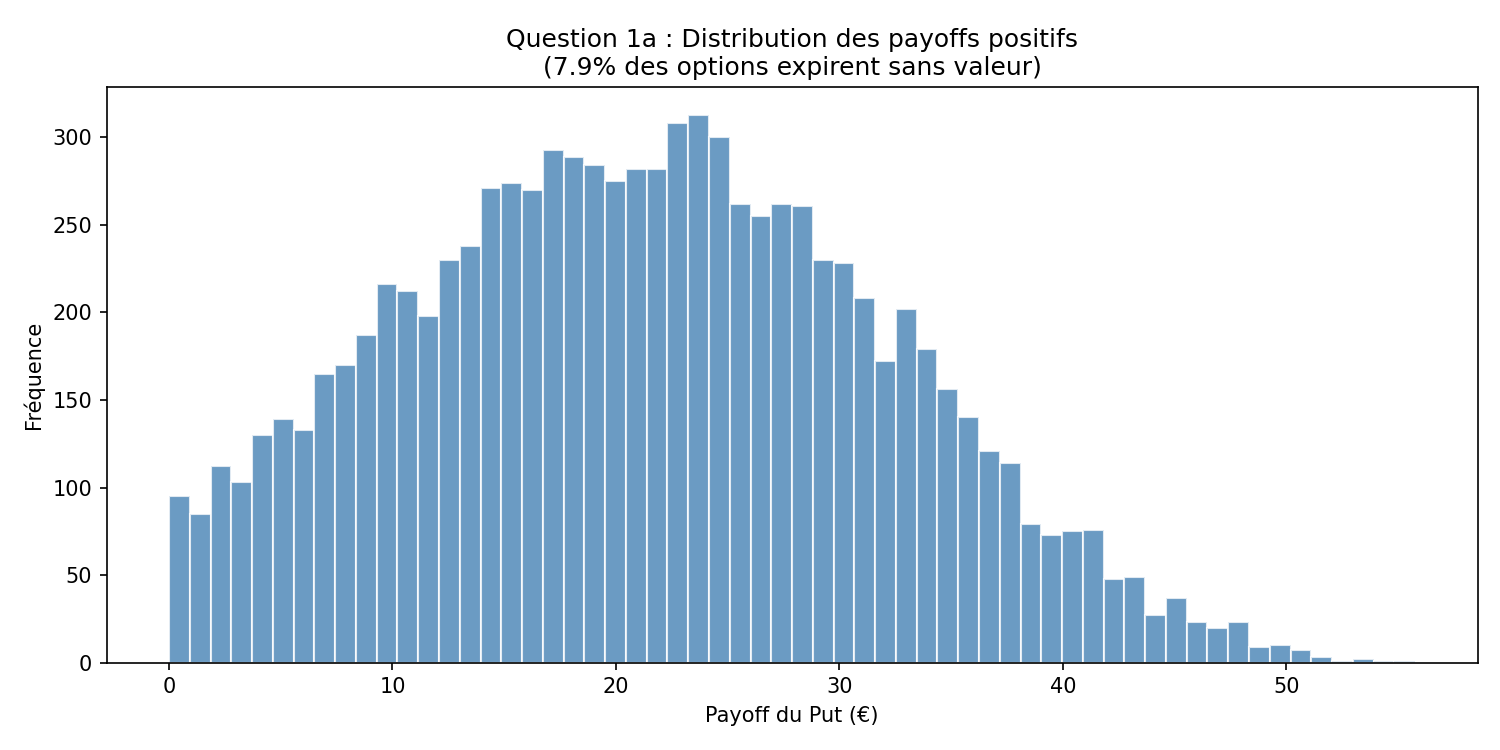
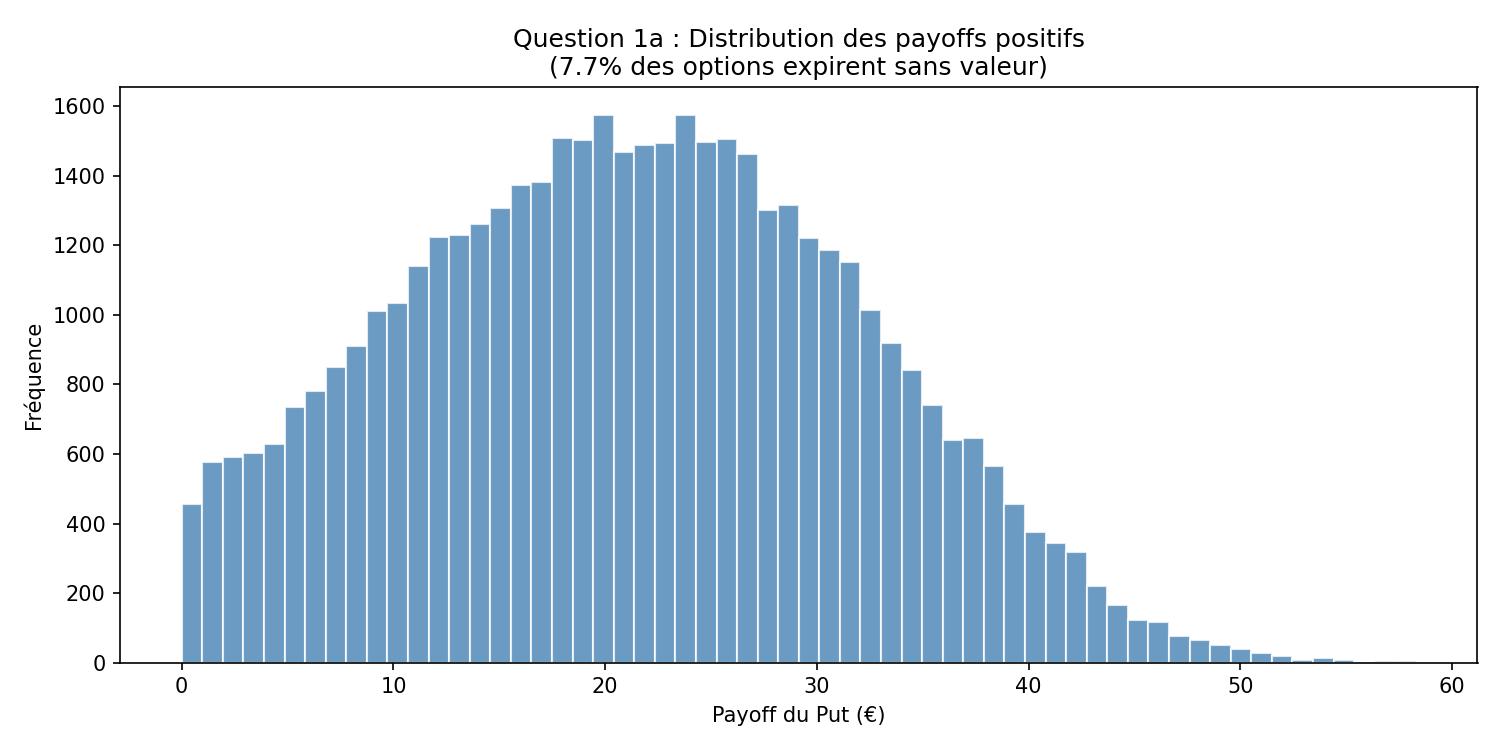
correction G2

diff --git a/q1a.py b/q1a.py
@@ -16,7 +16,7 @@ K     = 110        # strike
 T     = 0.5        # maturité en années (6 mois)
 N     = 26         # nombre de pas (6 mois en 26 pas ~ hebdomadaire)
 dt    = T / N      # pas temporel
-n_sim = 10000      # nombre de simulations
+n_sim = 50000      # nombre de simulations
 
 # ---------------------------
 # Fonction de simulation Monte Carlo - European Put
